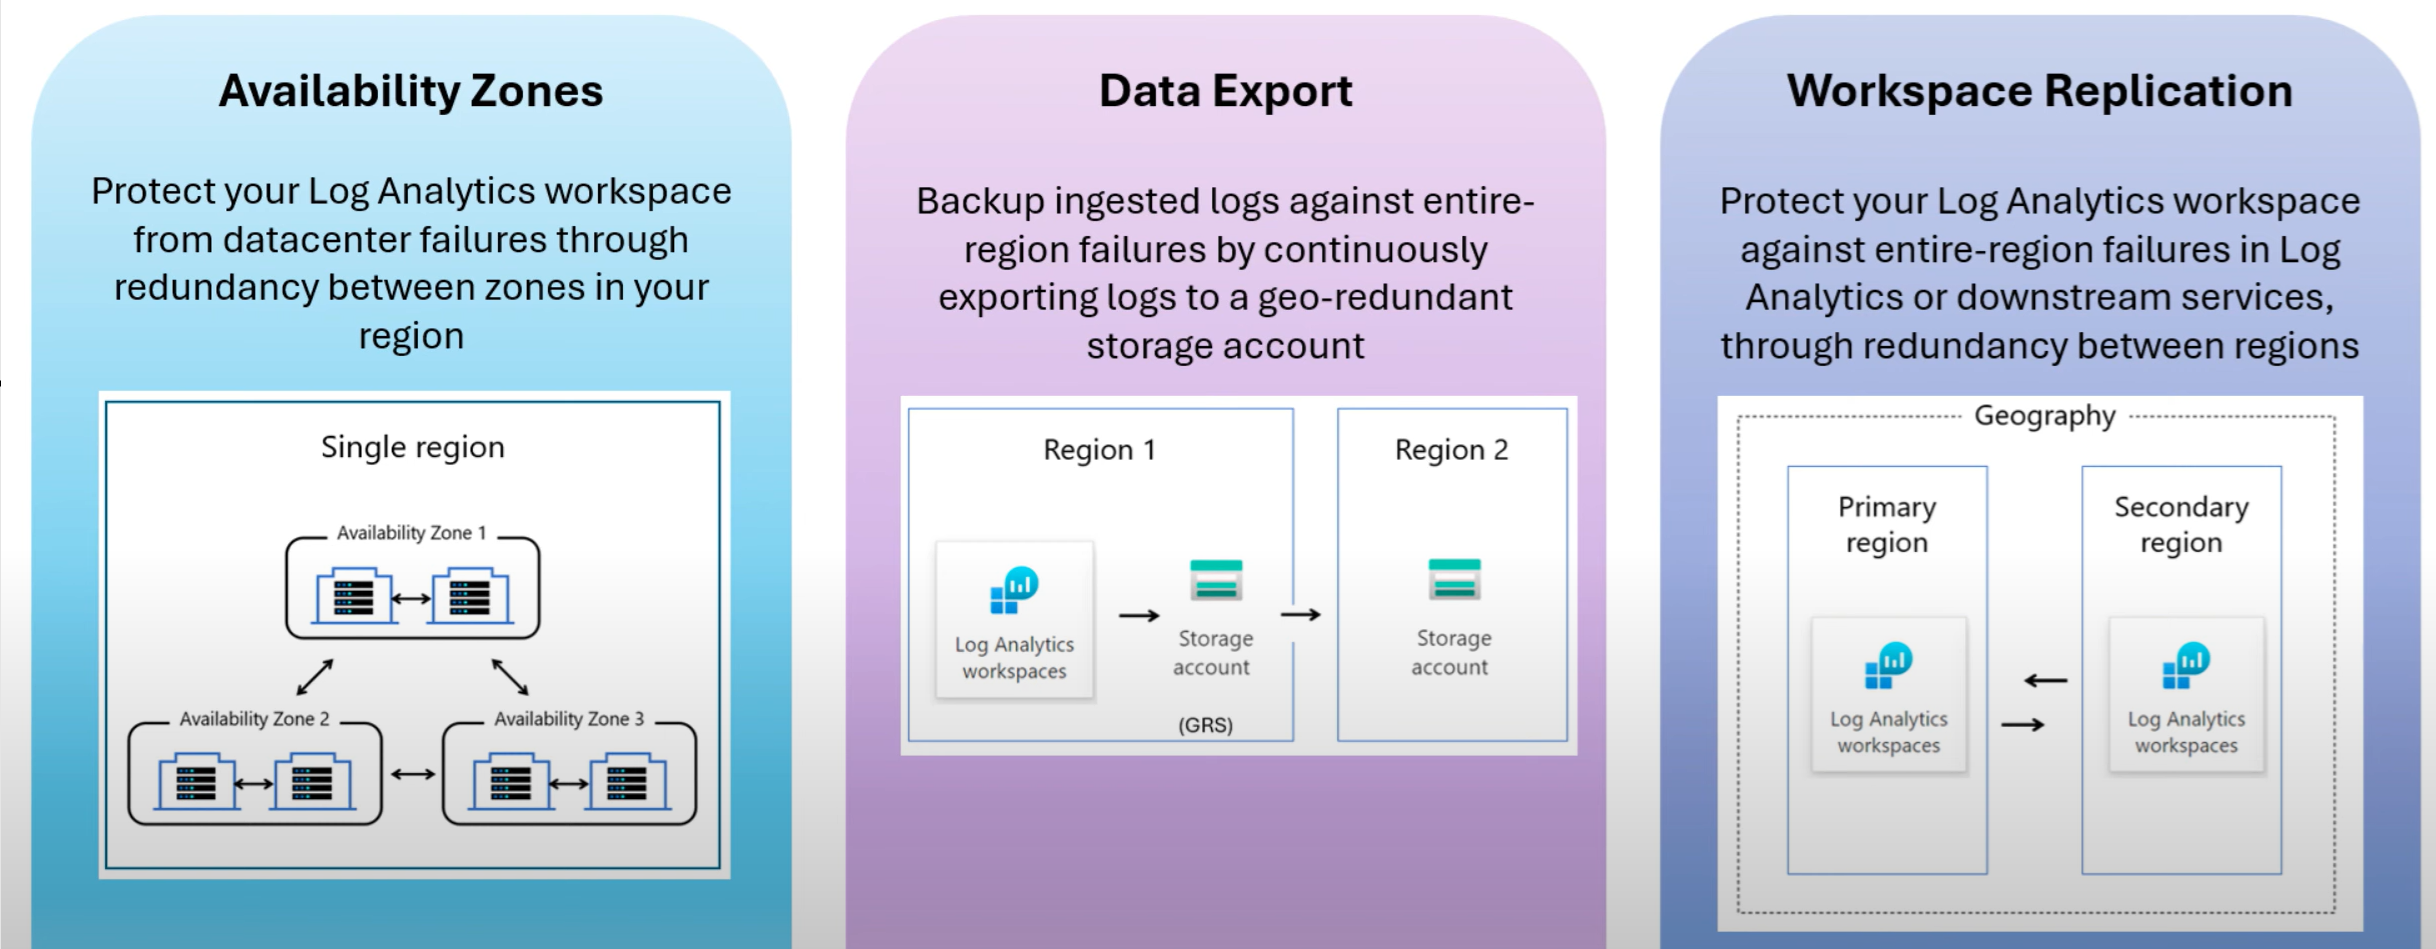
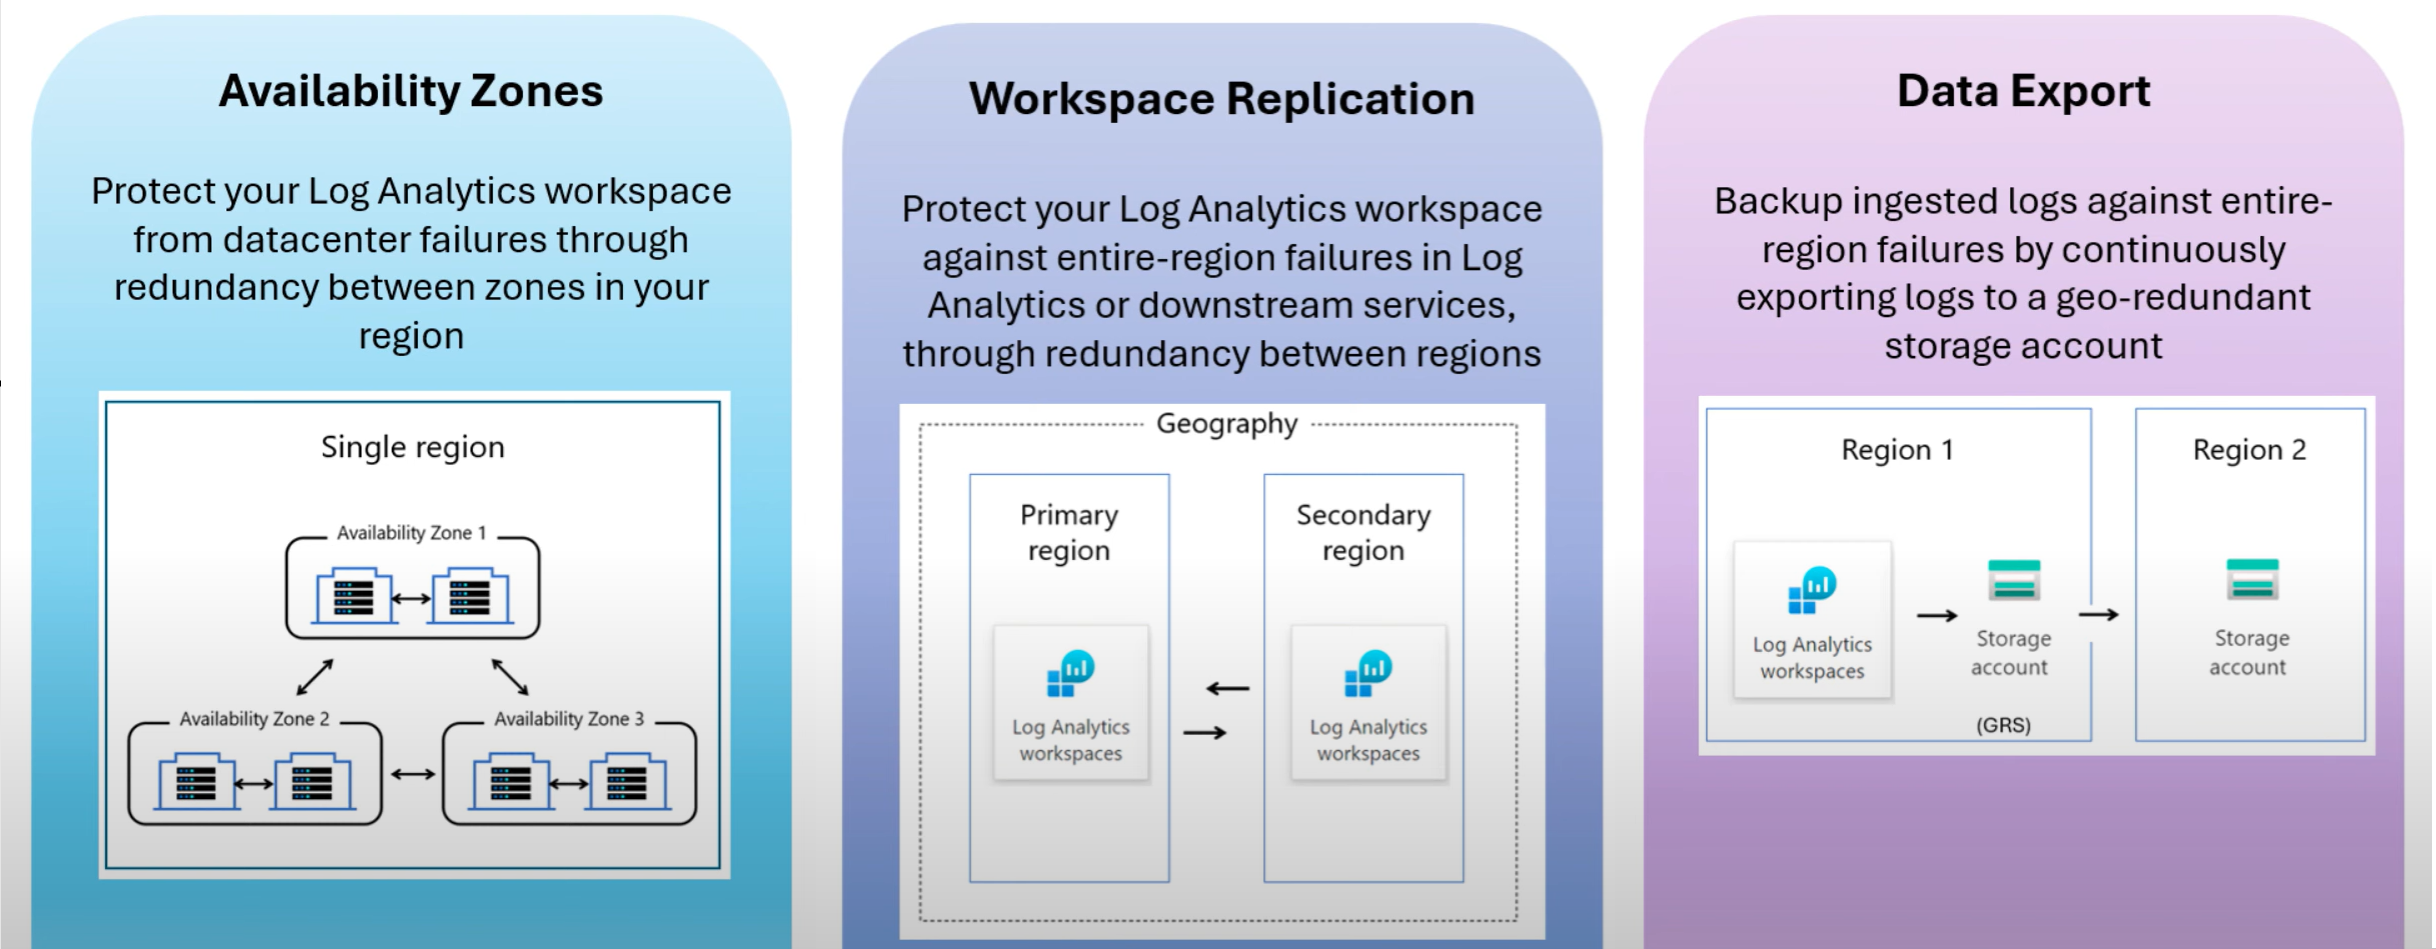
Address reviewer feedback: reorder options, add cost drivers, fix typos
- Reorder reliability options: AZ > Replication > Export (Meir)
- Replace vague cost labels with cost driver explanations (Nir)
- Expand DCR cost control note (Nir)
- Downplay shared responsibility with collaborative framing (Meir)
- Fix typo: switchbakc -> switchback
- Fix garbled link text: TMonitor...queriesO
- Update resiliency features diagram

diff --git a/articles/reliability/reliability-monitor-logs.md b/articles/reliability/reliability-monitor-logs.md
@@ -7,7 +7,7 @@ ms.topic: reliability-article
 ms.custom: subject-reliability
 ms.service: azure-monitor
 ms.subservice: logs
-ms.date: 03/09/2026
+ms.date: 04/08/2026
 ---
 
 # Reliability in Azure Monitor Logs
@@ -16,17 +16,20 @@ ms.date: 03/09/2026
 
 [!INCLUDE [Shared responsibility description](includes/reliability-shared-responsibility-include.md)]
 
-This article describes how to make Azure Monitor Logs resilient to various potential outages and problems, including transient faults, availability zone outages, and region outages.
+Azure Monitor Logs provides built-in resilience features that protect your data and minimize disruptions. This article describes those features and how you can use them to make your Log Analytics workspaces resilient to various potential outages and problems, including transient faults, availability zone outages, and region outages.
 
 ## Production deployment recommendations
 
 Azure Monitor Logs offers several features that you can use individually or in combination to help enhance workspaces resilience to various types of issues.
 
-| Capability    | Description    | Relative cost |
+| Capability    | Description    | Cost impact |
 |----|----|----|
-| [Availability zones](/azure/azure-monitor/logs/availability-zones)    | Protect your Log Analytics workspace from datacenter failures through redundancy between zones in your region.    | Least expensive |
-| [Data export](/azure/azure-monitor/logs/logs-data-export)    | Back up ingested logs against entire region failures by continuously exporting logs to a geo-redundant storage account.    | Somewhat expensive |
-| [Workspace replication](/azure/azure-monitor/logs/workspace-replication)    | Protect your Log Analytics workspace against entire region failures in Log Analytics or downstream services through redundancy between regions.    | Most expensive |
+| [Availability zones](/azure/azure-monitor/logs/availability-zones)    | Protect your Log Analytics workspace from datacenter failures through redundancy between zones in your region.    | No extra charge. Included with standard workspace pricing. Dedicated clusters must meet commitment tier minimums. |
+| [Workspace replication](/azure/azure-monitor/logs/workspace-replication)    | Protect your Log Analytics workspace against entire region failures in Log Analytics or downstream services through redundancy between regions.    | All ingested data is replicated, which adds replication charges. You can reduce costs by choosing which DCRs participate in replication. |
+| [Data export](/azure/azure-monitor/logs/logs-data-export)    | Back up ingested logs against entire region failures by continuously exporting logs to a geo-redundant storage account.    | Storage costs vary by volume and redundancy tier (GRS). No extra Azure Monitor charge for export itself. |
+
+For detailed pricing information, see [Azure Monitor pricing](https://azure.microsoft.com/pricing/details/monitor/).
+
 
 :::image type="content" source="media/reliability-monitor-logs/resiliency-features.png" lightbox="media/reliability-monitor-logs/resiliency-features.png" alt-text="An image showing the resiliency features of Azure Monitor Log Analytics based on the previous table." border="false":::
 
@@ -243,13 +246,13 @@ This section describes what to expect when you configure a Log Analytics workspa
     > [!WARNING]
     > **Note to PG:** can we give an idea of the replication lag (even if it's vague, like "a few minutes")?
 
-    You can save on replication costs by choosing which DCRs participate in replication.
+    Replication costs are affected by which DCRs participate in replication. Workspace replication applies at the workspace level, so you can't select individual tables to replicate. However, you control costs by associating only the DCRs that carry critical data streams with the workspace's data collection endpoint. DCRs that aren't associated with the workspace DCE don't replicate their data. For more information, see [Associate data collection rules](/azure/azure-monitor/logs/workspace-replication#associate-data-collection-rules-with-the-workspace-data-collection-endpoint).
 
 #### Behavior during a region failure
 
 This section describes what to expect when you configure a Log Analytics workspace for workspace replication, and there's an outage in one of the regions.
 
-- **Detection and response:** You're responsible for deciding when to switch the secondary workspace to become the new primary. Microsoft doesn't make this decision or initiate the process for you, even if there's a region outage. Switchover and switchbakc are manual actions.
+- **Detection and response:** You're responsible for deciding when to switch the secondary workspace to become the new primary. Microsoft doesn't make this decision or initiate the process for you, even if there's a region outage. Switchover and switchback are manual actions.
 
     For information about how to decide when to switch over, see [When should I switch over?](/azure/azure-monitor/logs/workspace-replication#when-should-i-switch-over), and for information about how to monitor the health of your workspace when making the decision to switch over, see [Monitor workspace performance using queries](/azure/azure-monitor/logs/workspace-replication#monitor-workspace-performance-using-queries).
 
